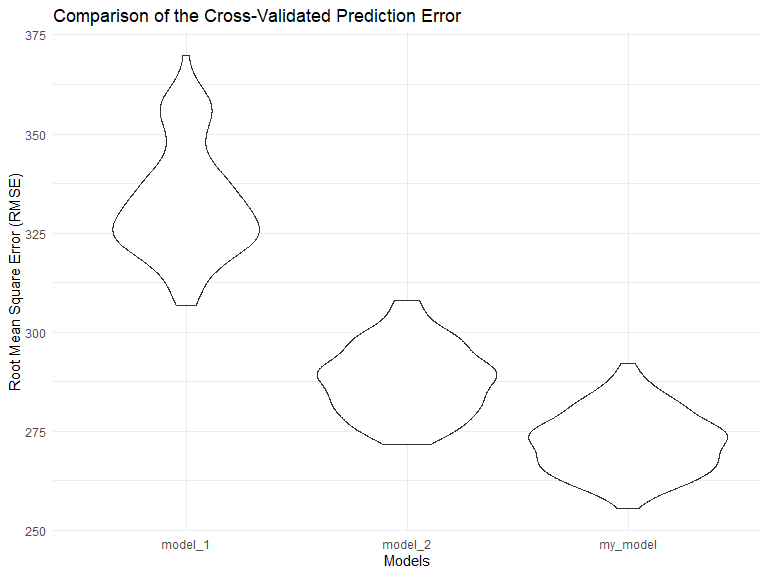
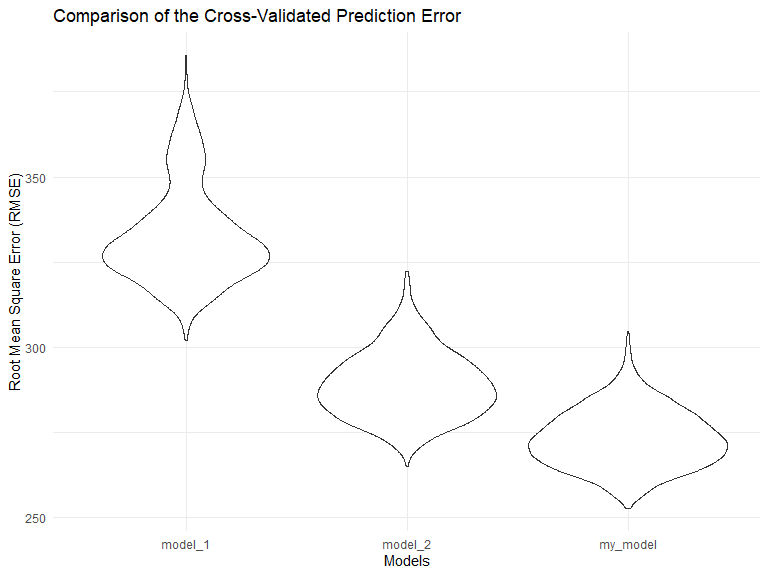
Problem 2 - add comments

diff --git a/p8105_hw6_sz2957.md b/p8105_hw6_sz2957.md
@@ -95,6 +95,16 @@ even in tough cases.
 
 ### Problem 2
 
+#### Loading the dataset
+
+-   First, I used `read_csv` to read the original dataset and used
+    `janitor::clean_names` to clean the title.
+-   Then, I used `mutate` to create `city_state` variable and a binary
+    variable indicating whether the homicide is solved called
+    `homicides_status`, and translate `victim_age` as a numeric vector.
+-   Lastly, I used `filter` to omit some cities and limit the analysis
+    for whom `victim_race` is `white` or `black`.
+
 ``` r
 homicides_raw_df = 
   read_csv("data/homicide-data.csv") %>% 
@@ -102,8 +112,7 @@ homicides_raw_df =
   mutate(
     city_state = str_c(city,state, sep = ","),
     homicides_status = as.numeric(disposition == "Closed by arrest"),
-    victim_age = as.numeric(victim_age),
-    victim_race = fct_relevel(victim_race, "White")
+    victim_age = as.numeric(victim_age)
   ) %>% 
   filter(
     !city_state %in% c("Dallas,TX", "Phoneix,AZ", "Kansas City,MO", "Tulsa,AL"),
@@ -119,6 +128,18 @@ homicides_raw_df =
     ## 
     ## ℹ Use `spec()` to retrieve the full column specification for this data.
     ## ℹ Specify the column types or set `show_col_types = FALSE` to quiet this message.
+
+#### Create a GLM model for Baltimore,MD
+
+-   First, I used `glm` function to fit a logistic regression model with
+    `homicides_status` as outcome and `victim_age`, `victim_sex` and
+    `victim_race` as predictors.
+-   Then, I applied `broom::tidy` to this object.
+-   In order to estimate the odds ratio and confidence interval, I used
+    `exp` to translate the log odds ratio to odds ratio, and calculate
+    the 95% confidence interval by multiple 1.96.
+-   Finally, I used `filter` to only compare male victims to female
+    victims keeping all other variables fixed.
 
 ``` r
 glm_baltimore = 
@@ -140,6 +161,17 @@ knitr::kable(digits = 3)
 |:---------------|------:|---------:|---------:|
 | victim_sexMale | 0.426 |    0.325 |    0.558 |
 
+#### Create a GLM model for each cities.
+
+-   In order to create a GLM model for each cities, firstly, I used
+    `nest` to nest the datas excluding `city_state`.
+-   Then, I used `mutate` and `map` to generalize logistic regression
+    model for each city and marked the results as `results`.
+-   After that, I `unnest` the dataframe and used `mutate` to translate
+    log odds ratio and calculate the confidence interval.
+-   Finally, I used `filter` to only compare male victims to female
+    victims keeping all other variables fixed.
+
 ``` r
 glm_homicides_df = 
   homicides_raw_df %>%
@@ -155,7 +187,6 @@ glm_homicides_df =
          CI_upper = exp(estimate + 1.96 * std.error)) %>%
   filter(term == "victim_sexMale") %>% 
   select(city_state, OR, CI_lower, CI_upper)
-
 
 glm_homicides_df %>% 
   knitr::kable(digits = 3)
@@ -211,6 +242,11 @@ glm_homicides_df %>%
 | Tulsa,OK          | 0.976 |    0.614 |    1.552 |
 | Washington,DC     | 0.690 |    0.468 |    1.017 |
 
+#### Create a plot that shows the estimated ORs and CIs for each city
+
+-   First, I reordered the cities according to OR using `fct_reorder`.
+-   Then, I created a plot use `ggplot`, `geom_point` and `geom_line`.
+
 ``` r
 glm_homicides_df %>% 
   mutate(city_state = fct_reorder(city_state, OR)) %>%
@@ -223,6 +259,14 @@ glm_homicides_df %>%
 ```
 
 <img src="p8105_hw6_sz2957_files/figure-gfm/unnamed-chunk-6-1.png" width="90%" />
+\* According to the plot, we can know that the estimated odds ratio of
+solving homicides between male and female victims lies in between 0 and
+2. \* For 50 cities, only 4 cities are with odds ratio higher than 1,
+which suggests that male victims has a larger chance to have a solving
+homicides. Those cities are Nashville,TN, Fresno,CA, Stockton,CA, and
+Albuquerque,NM. \* `Fresno,CA`, `Stockton,CA`, and `Albuquerque,NM`have
+wider confidence intervals than others, with higher standard errors.
+Those may be because of a small sample in those cities or some outliers.
 
 ### Problem 3
 
@@ -368,7 +412,7 @@ model_2
 
 ``` r
 cv_df = 
-  crossv_mc(birth_weight_df, 100) %>% 
+  crossv_mc(birth_weight_df, 1000) %>% 
   mutate(train = map(train, as_tibble),
     test = map(test, as_tibble))%>% 
   mutate(
